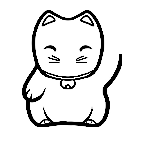
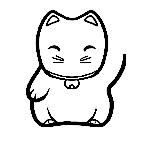
centered position of cat

diff --git a/src/main.c b/src/main.c
@@ -5,7 +5,7 @@
 #define MY_UUID { 0x1B, 0xCF, 0x9B, 0x64, 0x60, 0x1E, 0x47, 0xC3, 0x96, 0x87, 0xB4, 0x30, 0xE0, 0xB5, 0x4A, 0xC7 }
 PBL_APP_INFO(MY_UUID,
 			 "manekineko", "piking",
-			 1, 1, /* App version */
+			 1, 2, /* App version */
 			 RESOURCE_ID_IMAGE_MENU_ICON,
 			 APP_INFO_WATCH_FACE);
 
@@ -118,10 +118,10 @@ void handle_init(AppContextRef ctx) {
 	
 	layer_add_child(&window.layer, &neko.layer.layer);
 	
-	mouth_from_rect = GRect(62, 57, 12, 8);
-	mouth_to_rect = GRect(62, 65, 12, 8);
-	hand_from_rect = GRect(93, 35, 37, 27);
-	hand_to_rect = GRect(93, 50, 37, 27);
+	mouth_from_rect = GRect(66, 57, 12, 8);
+	mouth_to_rect = GRect(66, 65, 12, 8);
+	hand_from_rect = GRect(97, 35, 37, 27);
+	hand_to_rect = GRect(97, 50, 37, 27);
 	
 	GRect frame;  //holding frame
 	
